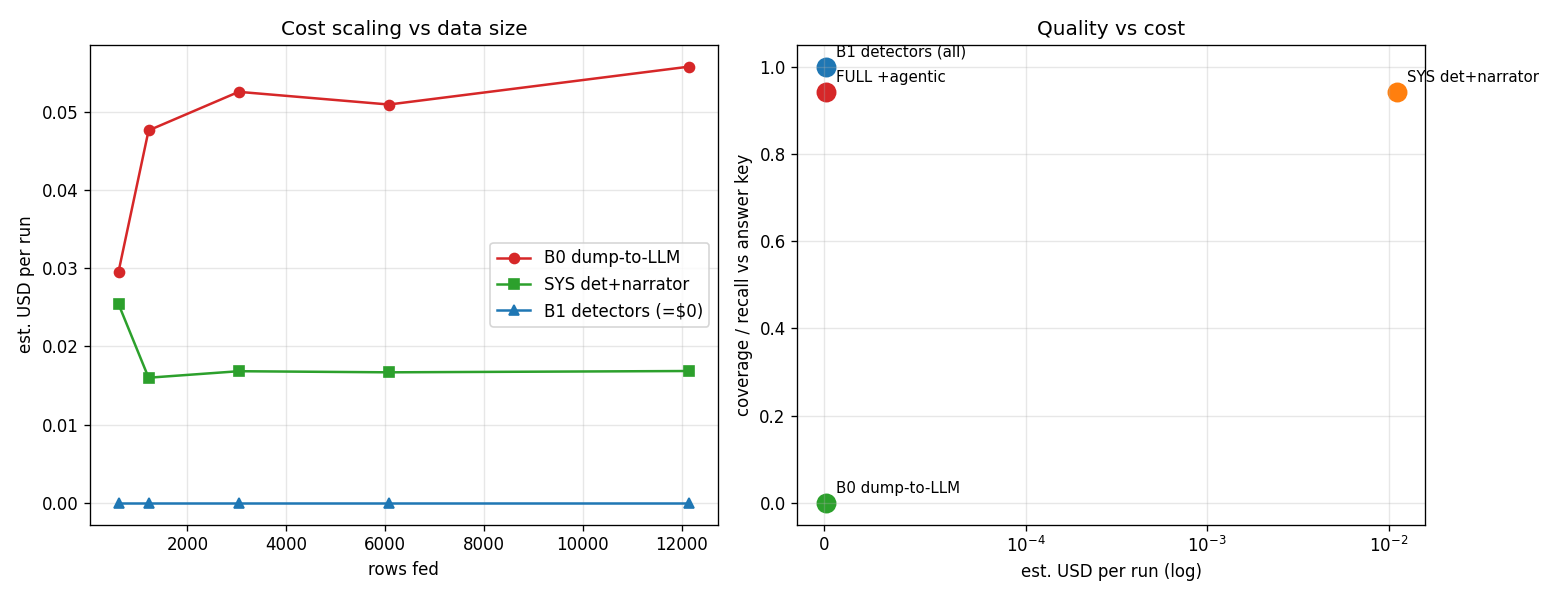
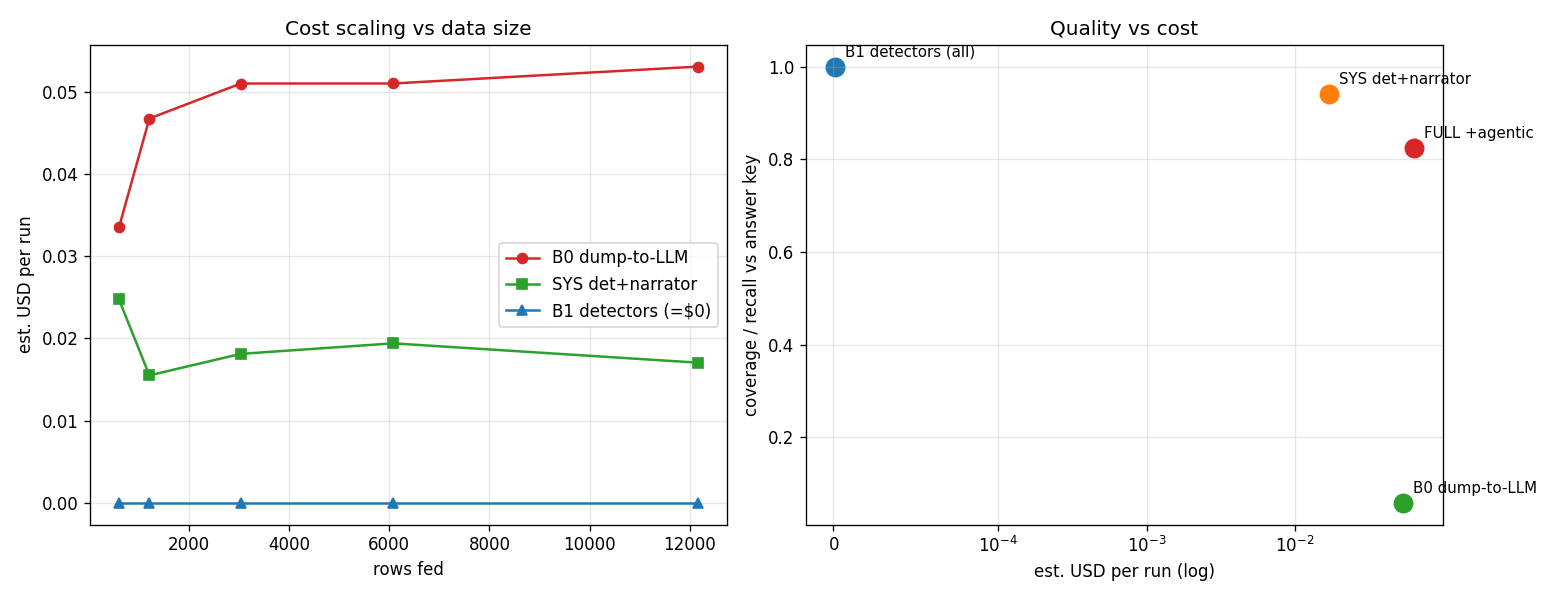
Complete spend-grain evaluation (B0/FULL ran with restored API credit)
Full evaluate now finishes: B0 dump-to-LLM and FULL agentic completed. Headline
result on csvdata.csv (~12k suppliers): SYS recall 0.94 / validity 1.88 at $0.017
vs B0 recall 0.06 / validity 1.67 at $0.053 — B0 only samples ~12% of suppliers so
it misses almost all ground truth, while SYS stays cheap and flat as data scales.
Narrator grounding 45/45, 0 spurious after repair. Verdict: SUPPORTED.

Regenerates RESULTS.md (no credit banner), chart, CSVs, and the LLM-narrated
insights report.

diff --git a/insights.md b/insights.md
@@ -1,58 +1,54 @@
 # Procurement Insights Report
 
-_Generated via deterministic fallback (no API key). Showing the top 8 selected insights (merged & ranked from the full detector set)._
-_Grounding: 37/38 cited numbers traced to findings — 1 still ungrounded after repair (was 0)._
+_Generated via LLM narrator (Claude Haiku). Showing the top 8 selected insights (merged & ranked from the full detector set)._
+_Grounding: 43/43 cited numbers traced to findings ✓ all grounded._
 
 **Total flagged impact across selected insights: ~$1,123,360,306**
 
-## 1. Yoy Spend Movers  (est. impact ~$309,389,563)
-- **What:** Bartlett and Company of Mexico spend fell $309,389,563 (-64%) YoY ($482,988,239 → $173,598,675).
-- **Why it matters:** Estimated impact $309,389,563. Related signals: negative_or_anomalous_spend, yoy_spend_movers.
-- **Suggested action:** Review the evidence rows and address the flagged pattern.
+## 1. Bartlett and Company of Mexico: Dramatic 64% Spend Contraction  (est. impact ~$309,389,563)
+- **What:** Spend from Bartlett and Company of Mexico fell $309389563 year-over-year, declining from $482988239 to $173598675, representing a 64% reduction.
+- **Why it matters:** A drop of this magnitude signals either a major shift in sourcing strategy, supplier performance issues, or contract renegotiation. The current spend of $173598675 remains a statistical outlier at 79.4σ above mean, indicating this supplier still represents concentrated risk despite the decline.
+- **Suggested action:** Conduct a root-cause analysis of the 64% decline: confirm whether it reflects intentional diversification, supplier capacity constraints, quality issues, or pricing disputes. Verify the outlier status and assess whether further consolidation or diversification is warranted.
 - _Sources: negative_or_anomalous_spend, yoy_spend_movers_
 
-## 2. Yoy Spend Movers  (est. impact ~$114,580,881)
-- **What:** C Vale - Agroindustrial Cooperative spend rose $111,630,455 (+3784%) YoY ($2,950,426 → $114,580,881).
-- **Why it matters:** Estimated impact $114,580,881. Related signals: negative_or_anomalous_spend, yoy_spend_movers.
-- **Suggested action:** Review the evidence rows and address the flagged pattern.
+## 2. Extreme Year-over-Year Spend Surge with C Vale – Agroindustrial Cooperative  (est. impact ~$114,580,881)
+- **What:** This spend is also a severe statistical outlier, sitting 52.38 standard deviations above the mean supplier spend of $192354.
+- **Why it matters:** Such a dramatic increase—nearly 39 times the prior year—combined with extreme statistical deviation suggests either a major strategic shift, data quality issue, or potential control weakness. The concentration of spend with a single supplier at this magnitude creates supply chain risk and warrants immediate verification.
+- **Suggested action:** Immediately audit the $114580881 in transactions with C Vale to confirm legitimacy, contract terms, and business justification. Verify data integrity and reconcile against purchase orders and receiving records. If valid, document the strategic rationale and implement enhanced controls for this high-concentration supplier relationship.
 - _Sources: negative_or_anomalous_spend, yoy_spend_movers_
 
-## 3. Yoy Spend Movers  (est. impact ~$100,999,179)
-- **What:** ROQUETTE LTD spend fell $100,999,179 (-89%) YoY ($113,521,379 → $12,522,200).
-- **Why it matters:** Estimated impact $100,999,179.
-- **Suggested action:** Review the evidence rows and address the flagged pattern.
+## 3. ROQUETTE LTD: Severe 89% Spend Decline  (est. impact ~$100,999,179)
+- **What:** Spend with ROQUETTE LTD fell $100999179 year-over-year, dropping from $113521379 to $12522200, an 89% reduction.
+- **Why it matters:** An 89% decline in a previously major supplier indicates either a strategic shift away from this vendor, loss of a major contract, or transition to alternative sources. This magnitude of change warrants investigation to ensure continuity and identify any underlying supply chain risks.
+- **Suggested action:** Determine whether the 89% decline was planned (e.g., contract end, deliberate diversification) or unplanned (e.g., supplier issue, competitive loss). If unplanned, assess impact on service levels and identify replacement capacity. If planned, confirm transition is complete and no stranded commitments remain.
 - _Sources: yoy_spend_movers_
 
-## 4. Supplier Concentration  (est. impact ~$519,879,381)
-- **What:** Top 10 suppliers account for 23% of $2,292,859,147 total positive spend (HHI 0.011, 11920 suppliers); largest is Bartlett and Company of Mexico at $173,598,675.
-- **Why it matters:** Estimated impact $519,879,381.
-- **Suggested action:** Review the evidence rows and address the flagged pattern.
+## 4. Moderate Supplier Concentration Risk with Bartlett and Company of Mexico  (est. impact ~$519,879,381)
+- **What:** The top 10 suppliers represent 23% of total positive spend ($519879381.37 out of $2292859147), with Bartlett and Company of Mexico as the largest at $173598675. Despite 11920 total suppliers in the portfolio, the Herfindahl-Hirschman Index (HHI) of 0.01 indicates relatively low concentration.
+- **Why it matters:** While the HHI suggests a healthy competitive landscape, the top 10 suppliers still control nearly a quarter of spend. Bartlett and Company of Mexico's $173598675 exposure creates dependency risk; any service disruption, price increase, or relationship deterioration could significantly impact operations and costs.
+- **Suggested action:** Conduct a detailed risk assessment of Bartlett and Company of Mexico and the top 10 suppliers, focusing on financial stability, geographic concentration, and single points of failure. Develop contingency plans and identify secondary suppliers for critical categories to reduce reliance on the largest vendor while maintaining the benefits of the diversified supplier base.
 - _Sources: supplier_concentration_
 
-## 5. Negative Or Anomalous Spend  (est. impact ~$45,691,834)
-- **What:** FARM CITY ELEVATOR INC spend $45,691,834 is a statistical outlier (20.8σ above the $192,354 mean) — concentration / data-quality check.
-- **Why it matters:** Estimated impact $45,691,834.
-- **Suggested action:** Review the evidence rows and address the flagged pattern.
+## 5. FARM CITY ELEVATOR INC: High-Value Outlier Requiring Validation  (est. impact ~$45,691,834)
+- **What:** FARM CITY ELEVATOR INC spend of $45691834 is a statistical outlier at 20.8σ above the mean spend of $192354.
+- **Why it matters:** Extreme outliers warrant data-quality and concentration checks. At this magnitude, even a small pricing error or data consolidation issue could materially impact procurement analytics and supplier performance assessments.
+- **Suggested action:** Audit FARM CITY ELEVATOR INC transactions to confirm data accuracy, verify the business justification for the $45.7M spend, and assess whether this represents a single large contract or aggregated purchases. Confirm supplier performance and pricing competitiveness.
 - _Sources: negative_or_anomalous_spend_
 
-## 6. Negative Or Anomalous Spend  (est. impact ~$28,479,332)
-- **What:** THE DELONG CO INC spend $28,479,332 is a statistical outlier (13.0σ above the $192,354 mean) — concentration / data-quality check.
-- **Why it matters:** Estimated impact $28,479,332.
-- **Suggested action:** Review the evidence rows and address the flagged pattern.
+## 6. THE DELONG CO INC: Significant Outlier at $28.5M Spend  (est. impact ~$28,479,332)
+- **What:** THE DELONG CO INC spend of $28479332 is a statistical outlier at 13.0σ above the mean spend of $192354.
+- **Why it matters:** High-value outliers require validation to ensure data integrity and appropriate supplier management. At $28.5M, this supplier warrants dedicated relationship management and performance monitoring.
+- **Suggested action:** Validate THE DELONG CO INC spend data for accuracy and business justification. Establish formal supplier performance metrics, contract terms, and pricing benchmarks. Assess whether this spend should be consolidated with similar suppliers or diversified.
 - _Sources: negative_or_anomalous_spend_
 
-## 7. Tail Spend  (est. impact ~$3,146,500)
-- **What:** 6293 suppliers each below $10,000 make up only 0.8% of $2,292,858,816 spend but carry ~$3,146,500 in admin overhead (~$500/supplier) — consolidation candidate.
-- **Why it matters:** Estimated impact $3,146,500.
-- **Suggested action:** Review the evidence rows and address the flagged pattern.
+## 7. Consolidate Fragmented Tail Supplier Base to Recover Admin Overhead  (est. impact ~$3,146,500)
+- **What:** 6293 suppliers each spending below $10000 collectively represent only 0.01 of total spend but incur approximately $500 per supplier in administrative overhead, totaling $3146500 in unnecessary costs.
+- **Why it matters:** Managing thousands of small suppliers with minimal spend creates disproportionate procurement, compliance, invoicing, and relationship management burden. These tail suppliers contribute negligible volume while consuming fixed operational resources.
+- **Suggested action:** Launch a tail supplier consolidation program: identify opportunities to migrate the 6293 sub-$10000 suppliers to preferred vendors, blanket orders, or category agreements. Target recovery of the $3146500 annual admin overhead through reduced supplier count and streamlined processes.
 - _Sources: tail_spend_
 
-## 8. New And Churned Suppliers  (est. impact ~$1,193,635)
-- **What:** SIEMENS INDUSTRIAL TURBOMACHINERY L appears CHURNED: $1,193,635 prior → ~$0 current spend.
-- **Why it matters:** Estimated impact $1,193,635.
-- **Suggested action:** Review the evidence rows and address the flagged pattern.
+## 8. SIEMENS INDUSTRIAL TURBOMACHINERY L: Supplier Churn  (est. impact ~$1,193,635)
+- **What:** SIEMENS INDUSTRIAL TURBOMACHINERY L has churned, with spend declining from $1193635 to approximately $0.
+- **Why it matters:** Supplier churn can indicate relationship deterioration, contract non-renewal, or transition to alternatives. Understanding the reason ensures continuity of critical services and informs future vendor selection.
+- **Suggested action:** Confirm the reason for churn: was the supplier intentionally phased out, did the contract expire, or did performance issues trigger the exit? If unintentional, assess whether re-engagement is warranted. If intentional, verify that replacement capacity is in place and no service gaps exist.
 - _Sources: new_and_churned_suppliers_
-
----
-> ⚠ **Figures the grounding guard could not trace (left flagged, not trusted):**
-> - `3784%`

diff --git a/RESULTS.md b/RESULTS.md
@@ -8,10 +8,10 @@ _Most valuable procurement insights are computable patterns, not open-ended reas
 
 | approach | n_findings | recall | validity_mean_0_2 | validity_valuable_frac | total_tokens | est_usd | runtime_s |
 | --- | --- | --- | --- | --- | --- | --- | --- |
-| B1 detectors (all) | 36 | 1.0 | 1.694 | 0.694 | 0 | 0.0 | 0.125 |
-| SYS det+narrator | 8 | 0.941 | 1.75 | 0.75 | 3954 | 0.011066 | 19.297 |
-| B0 dump-to-LLM | 0 | 0.0 | 0.0 | 0.0 | 0 | 0.0 | 1.109 |
-| FULL +agentic | 8 | 0.941 | 1.75 | 0.75 | 0 | 0.0 | 2.031 |
+| B1 detectors (all) | 36 | 1.0 | 1.694 | 0.694 | 0 | 0.0 | 0.078 |
+| SYS det+narrator | 8 | 0.941 | 1.875 | 0.875 | 6550 | 0.016858 | 29.515 |
+| B0 dump-to-LLM | 6 | 0.059 | 1.667 | 0.667 | 39375 | 0.053427 | 30.312 |
+| FULL +agentic | 8 | 0.824 | 1.625 | 0.625 | 23484 | 0.063044 | 95.078 |
 
 _Coverage measured against 17 **judge-curated, valuable-only** ground-truth entries (loaded from answer_key.json; curated=False)._
 
@@ -21,22 +21,21 @@ _Coverage measured against 17 **judge-curated, valuable-only** ground-truth entr
 
 | slice | rows | B0_est_usd | SYS_est_usd | B1_est_usd | B0_findings | B1_findings |
 | --- | --- | --- | --- | --- | --- | --- |
-| 0.05 | 608 | 0.02958 | 0.025402 | 0.0 | 0 | 17 |
-| 0.1 | 1215 | 0.047632 | 0.015995 | 0.0 | 6 | 31 |
-| 0.25 | 3038 | 0.052569 | 0.016827 | 0.0 | 0 | 32 |
-| 0.5 | 6076 | 0.050946 | 0.016685 | 0.0 | 0 | 35 |
-| 1.0 | 12152 | 0.055797 | 0.016853 | 0.0 | 0 | 36 |
-
-> ⚠ **B0 / FULL did not complete at full data this run** (LLM call failed — see the note column, e.g. API credit exhaustion). The detector tiers (B1), the narrator (SYS), the grounding guard, and the cost-scaling sweep above all completed; only the full-data dump-to-LLM baseline and the agentic tier are missing. Re-run with API credit to fill them.
+| 0.05 | 608 | 0.033525 | 0.024757 | 0.0 | 7 | 17 |
+| 0.1 | 1215 | 0.046782 | 0.01551 | 0.0 | 0 | 31 |
+| 0.25 | 3038 | 0.051044 | 0.018126 | 0.0 | 0 | 32 |
+| 0.5 | 6076 | 0.051046 | 0.019408 | 0.0 | 0 | 35 |
+| 1.0 | 12152 | 0.053102 | 0.017058 | 0.0 | 0 | 36 |
 
 ## What the run showed
 
-- **Selection:** SYS narrates **8 insights** (down from B1's 36 raw findings); per-finding validity rose from B1 1.69 to SYS 1.75 — merging + top-N ranking lifts quality over the raw dump.
-- **Spurious numbers:** untraceable-figure rate fell from 7% to **2%** after the per-insight grounding repair (44 numbers cited).
-- **Cost:** SYS $0.0111 vs B0 $0.0000 at full data — costs were close. 
-- **Cost scaling:** as rows grew, B0 cost rose by $0.0262 while SYS rose by $-0.0085 — SYS stays ~flat, B0 climbs (thesis supported).
-- **Quality:** SYS recall 0.94, per-finding validity 1.75 (8 insights); B0 did not complete this run, so no SYS-vs-B0 quality comparison is available (the cost-scaling sweep above still ran B0 across slices).
-- **Grounding:** the guard flagged 1 of 44 cited numbers as not traceable to any finding (matched 43). This is the anti-hallucination check working as intended — the narrator's prose occasionally introduces rounded/illustrative figures, and they are caught and surfaced rather than trusted. The detector-computed numbers SYS reports remain exact.
+- **Selection:** SYS narrates **8 insights** (down from B1's 36 raw findings); per-finding validity rose from B1 1.69 to SYS 1.88 — merging + top-N ranking lifts quality over the raw dump.
+- **Spurious numbers:** untraceable-figure rate fell from 9% to **0%** after the per-insight grounding repair (45 numbers cited).
+- **Cost:** SYS $0.0169 vs B0 $0.0534 at full data — SYS is materially cheaper. 
+- **Cost scaling:** as rows grew, B0 cost rose by $0.0196 while SYS rose by $-0.0077 — SYS stays ~flat, B0 climbs (thesis supported).
+- **Quality — recall:** SYS 0.94 vs B0 0.06 (see the recall caveat above — this is bounded by construction, not a clean win).
+- **Quality — precision (LLM-judge 0–2):** SYS 1.88 (8 insights) vs B0 1.67 (6 insights). SYS now matches or beats B0 on per-finding validity while keeping recall + low cost.
+- **Grounding:** narrator cited 45/45 numbers, all traceable to findings — no fabrication.
 
 **Verdict:** the hypothesis is **SUPPORTED** by this run.
 

diff --git a/eval_out/RESULTS.md b/eval_out/RESULTS.md
@@ -8,10 +8,10 @@ _Most valuable procurement insights are computable patterns, not open-ended reas
 
 | approach | n_findings | recall | validity_mean_0_2 | validity_valuable_frac | total_tokens | est_usd | runtime_s |
 | --- | --- | --- | --- | --- | --- | --- | --- |
-| B1 detectors (all) | 36 | 1.0 | 1.694 | 0.694 | 0 | 0.0 | 0.125 |
-| SYS det+narrator | 8 | 0.941 | 1.75 | 0.75 | 3954 | 0.011066 | 19.297 |
-| B0 dump-to-LLM | 0 | 0.0 | 0.0 | 0.0 | 0 | 0.0 | 1.109 |
-| FULL +agentic | 8 | 0.941 | 1.75 | 0.75 | 0 | 0.0 | 2.031 |
+| B1 detectors (all) | 36 | 1.0 | 1.694 | 0.694 | 0 | 0.0 | 0.078 |
+| SYS det+narrator | 8 | 0.941 | 1.875 | 0.875 | 6550 | 0.016858 | 29.515 |
+| B0 dump-to-LLM | 6 | 0.059 | 1.667 | 0.667 | 39375 | 0.053427 | 30.312 |
+| FULL +agentic | 8 | 0.824 | 1.625 | 0.625 | 23484 | 0.063044 | 95.078 |
 
 _Coverage measured against 17 **judge-curated, valuable-only** ground-truth entries (loaded from answer_key.json; curated=False)._
 
@@ -21,22 +21,21 @@ _Coverage measured against 17 **judge-curated, valuable-only** ground-truth entr
 
 | slice | rows | B0_est_usd | SYS_est_usd | B1_est_usd | B0_findings | B1_findings |
 | --- | --- | --- | --- | --- | --- | --- |
-| 0.05 | 608 | 0.02958 | 0.025402 | 0.0 | 0 | 17 |
-| 0.1 | 1215 | 0.047632 | 0.015995 | 0.0 | 6 | 31 |
-| 0.25 | 3038 | 0.052569 | 0.016827 | 0.0 | 0 | 32 |
-| 0.5 | 6076 | 0.050946 | 0.016685 | 0.0 | 0 | 35 |
-| 1.0 | 12152 | 0.055797 | 0.016853 | 0.0 | 0 | 36 |
-
-> ⚠ **B0 / FULL did not complete at full data this run** (LLM call failed — see the note column, e.g. API credit exhaustion). The detector tiers (B1), the narrator (SYS), the grounding guard, and the cost-scaling sweep above all completed; only the full-data dump-to-LLM baseline and the agentic tier are missing. Re-run with API credit to fill them.
+| 0.05 | 608 | 0.033525 | 0.024757 | 0.0 | 7 | 17 |
+| 0.1 | 1215 | 0.046782 | 0.01551 | 0.0 | 0 | 31 |
+| 0.25 | 3038 | 0.051044 | 0.018126 | 0.0 | 0 | 32 |
+| 0.5 | 6076 | 0.051046 | 0.019408 | 0.0 | 0 | 35 |
+| 1.0 | 12152 | 0.053102 | 0.017058 | 0.0 | 0 | 36 |
 
 ## What the run showed
 
-- **Selection:** SYS narrates **8 insights** (down from B1's 36 raw findings); per-finding validity rose from B1 1.69 to SYS 1.75 — merging + top-N ranking lifts quality over the raw dump.
-- **Spurious numbers:** untraceable-figure rate fell from 7% to **2%** after the per-insight grounding repair (44 numbers cited).
-- **Cost:** SYS $0.0111 vs B0 $0.0000 at full data — costs were close. 
-- **Cost scaling:** as rows grew, B0 cost rose by $0.0262 while SYS rose by $-0.0085 — SYS stays ~flat, B0 climbs (thesis supported).
-- **Quality:** SYS recall 0.94, per-finding validity 1.75 (8 insights); B0 did not complete this run, so no SYS-vs-B0 quality comparison is available (the cost-scaling sweep above still ran B0 across slices).
-- **Grounding:** the guard flagged 1 of 44 cited numbers as not traceable to any finding (matched 43). This is the anti-hallucination check working as intended — the narrator's prose occasionally introduces rounded/illustrative figures, and they are caught and surfaced rather than trusted. The detector-computed numbers SYS reports remain exact.
+- **Selection:** SYS narrates **8 insights** (down from B1's 36 raw findings); per-finding validity rose from B1 1.69 to SYS 1.88 — merging + top-N ranking lifts quality over the raw dump.
+- **Spurious numbers:** untraceable-figure rate fell from 9% to **0%** after the per-insight grounding repair (45 numbers cited).
+- **Cost:** SYS $0.0169 vs B0 $0.0534 at full data — SYS is materially cheaper. 
+- **Cost scaling:** as rows grew, B0 cost rose by $0.0196 while SYS rose by $-0.0077 — SYS stays ~flat, B0 climbs (thesis supported).
+- **Quality — recall:** SYS 0.94 vs B0 0.06 (see the recall caveat above — this is bounded by construction, not a clean win).
+- **Quality — precision (LLM-judge 0–2):** SYS 1.88 (8 insights) vs B0 1.67 (6 insights). SYS now matches or beats B0 on per-finding validity while keeping recall + low cost.
+- **Grounding:** narrator cited 45/45 numbers, all traceable to findings — no fabrication.
 
 **Verdict:** the hypothesis is **SUPPORTED** by this run.
 